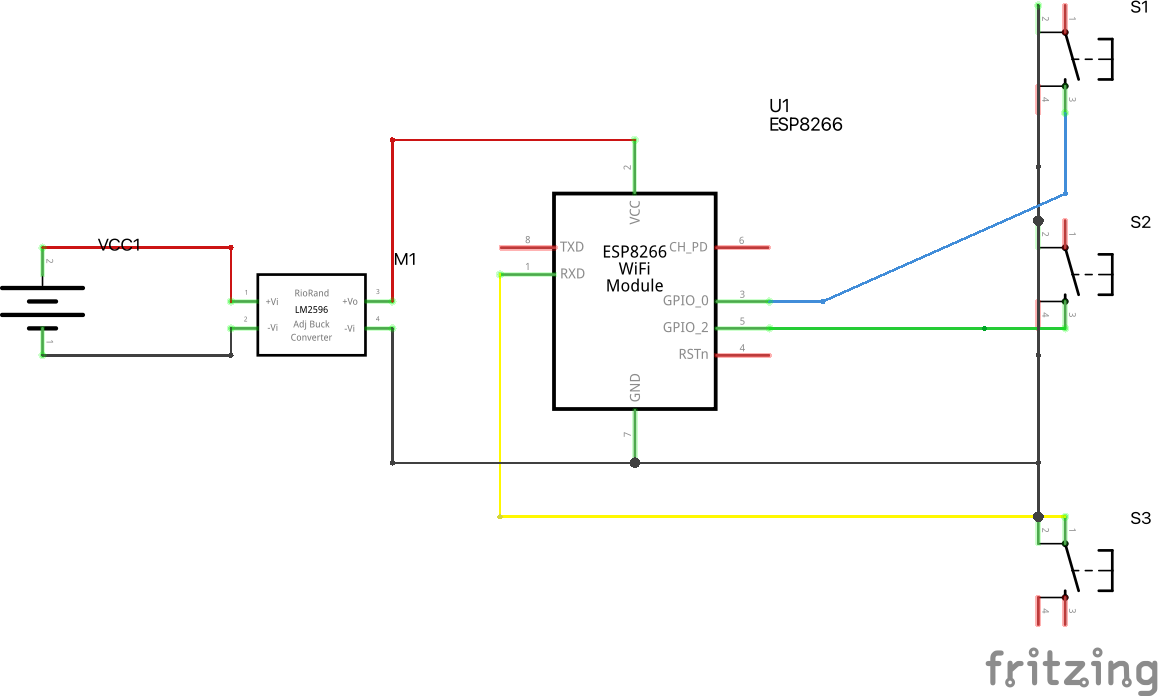
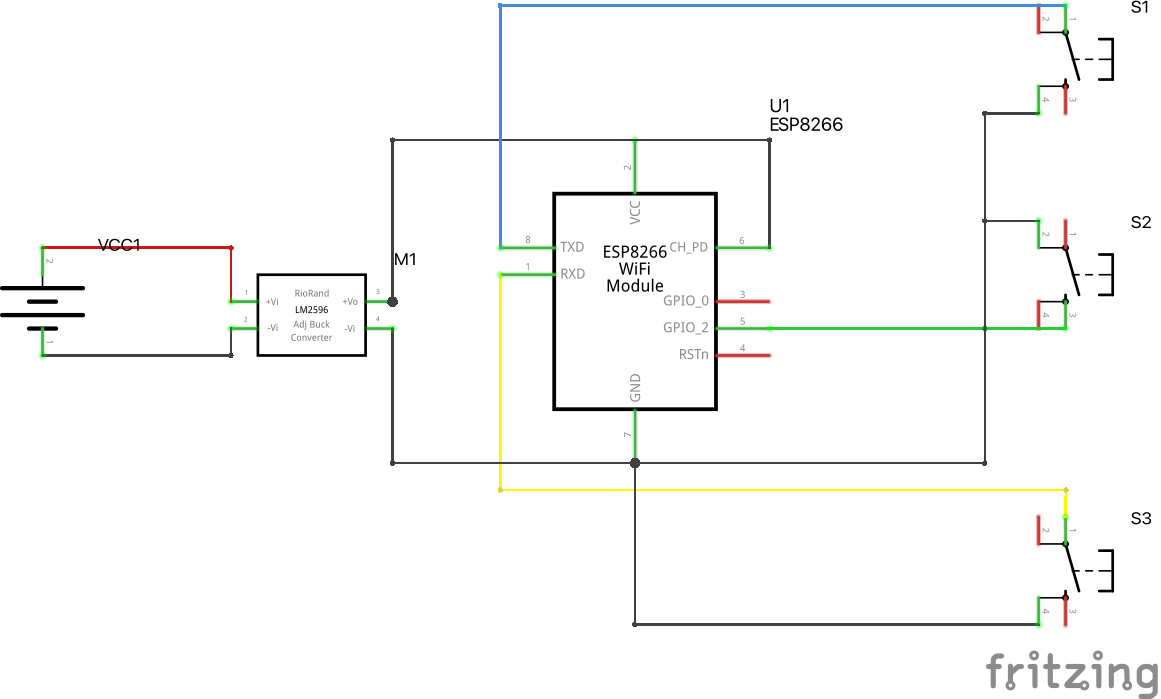
fixes a few things

diff --git a/bathbuddy/src/main.cpp b/bathbuddy/src/main.cpp
@@ -5,7 +5,7 @@
 #include <secrets.h>
 
 // Comment out when compiling for ESP8266-01S
-#define NODEMCU
+//#define NODEMCU
 
 #ifdef NODEMCU
 const int PIN_TOOTH = 14; //D5
@@ -13,9 +13,9 @@ const int PIN_HAND = 12; //D6
 const int PIN_INFINI = 13; //D7
 const int STATUS_LED = 2; //internal LED give some feedback
 #else
-const int PIN_TOOTH = 0;
-const int PIN_HAND = 2;
-const int PIN_INFINI = 3;
+const int PIN_TOOTH = 0; // IO0
+const int PIN_HAND = 1; // IO2
+const int PIN_INFINI = 3; // RX
 #endif
 
 
@@ -75,6 +75,7 @@ void pressFeedback() {
 
 void setup() {
   delay(2000);
+
   // since we use 3 pins, we can only debug when using a nodemcu board
   #ifdef NODEMCU
   Serial.begin(115200);
@@ -91,6 +92,10 @@ void setup() {
   pinMode(PIN_TOOTH, INPUT_PULLUP);
   pinMode(PIN_HAND, INPUT_PULLUP);
   pinMode(PIN_INFINI, INPUT_PULLUP);
+
+  #ifdef NODEMCU
+  Serial.println("Pins initialized");
+  #endif
 }
 
 void loop() {
@@ -105,6 +110,7 @@ void loop() {
     http.begin(client, "http://" + String(RASPI_IP) + "/toothbrush");
     http.GET();
     http.end();
+    delay(500);
   }
   if (btn_hand == LOW) {
     #ifdef NODEMCU
@@ -114,6 +120,7 @@ void loop() {
     http.begin(client, "http://" + String(RASPI_IP) + "/handwash");
     http.GET();
     http.end();
+    delay(500);
   }
   if (btn_infini == LOW) {
     #ifdef NODEMCU
@@ -123,10 +130,7 @@ void loop() {
     http.begin(client, "http://" + String(RASPI_IP) + "/infinite");
     http.GET();
     http.end();
+    delay(500);
   }
 
-  #ifdef NODEMCU
-  Serial.println("I'm awake, but I'm going into deep sleep mode until RESET pin is connected to a LOW signal");
-  #endif
-  ESP.deepSleep(0);
 }
